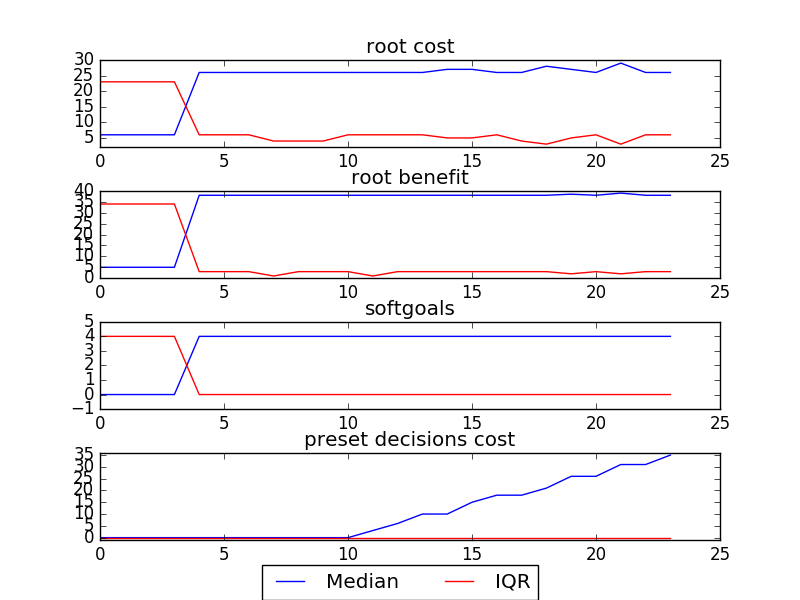
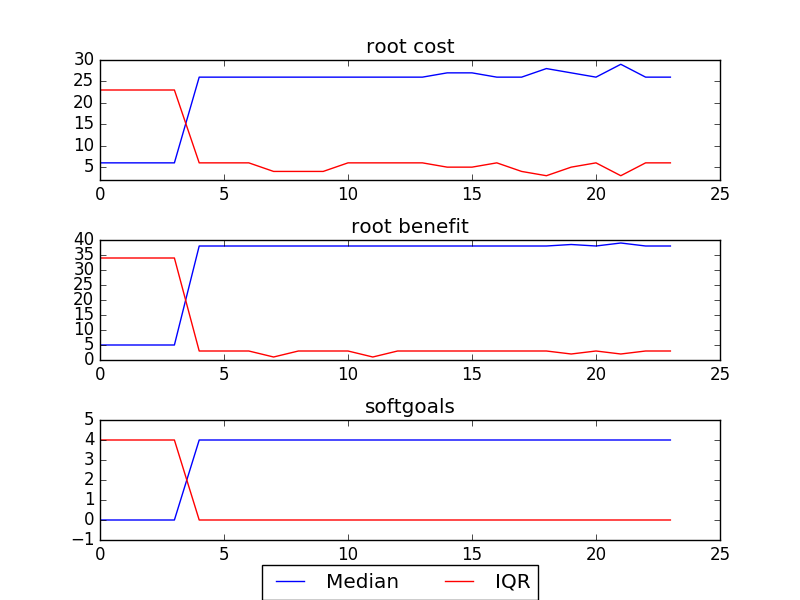
Removed Bottom Graph

diff --git a/src/pyAHP/star1.py b/src/pyAHP/star1.py
@@ -183,6 +183,7 @@ class Star1(O):
   def report(self, stats, sub_folder, fig_name):
     #headers = [obj.__name__.split("_")[-1] for obj in self.de.settings.obj_funcs]
     headers = ["root cost", "root benefit", "softgoals", "preset decisions cost"]
+    headers = ["root cost", "root benefit", "softgoals"]
     med_spread_plot(stats, headers, fig_name="img/"+sub_folder+"/"+fig_name+".png")
     return "img/"+sub_folder+"/"+fig_name+".png"
 
@@ -379,8 +380,8 @@ def run(graph, subfolder, optimal_index = None):
   obj_stats, gens, objective_map = star.prune(decisions, check_validity=VALID_ONLY)
   smoothened = smoothen(objective_map, decisions)
   smoothened += obj_stats[2:]
-  med_iqr_plot = star.report(obj_stats, subfolder, model.get_tree().name)
-  smoothened_plot = star.report(smoothened, subfolder, model.get_tree().name+"_smooth")
+  med_iqr_plot = star.report(obj_stats[:3], subfolder, model.get_tree().name)
+  smoothened_plot = star.report(smoothened[:3], subfolder, model.get_tree().name+"_smooth")
   print("```")
   print("![1](../../../src/%s)"%med_iqr_plot)
   print("### Smoothened Plot")
